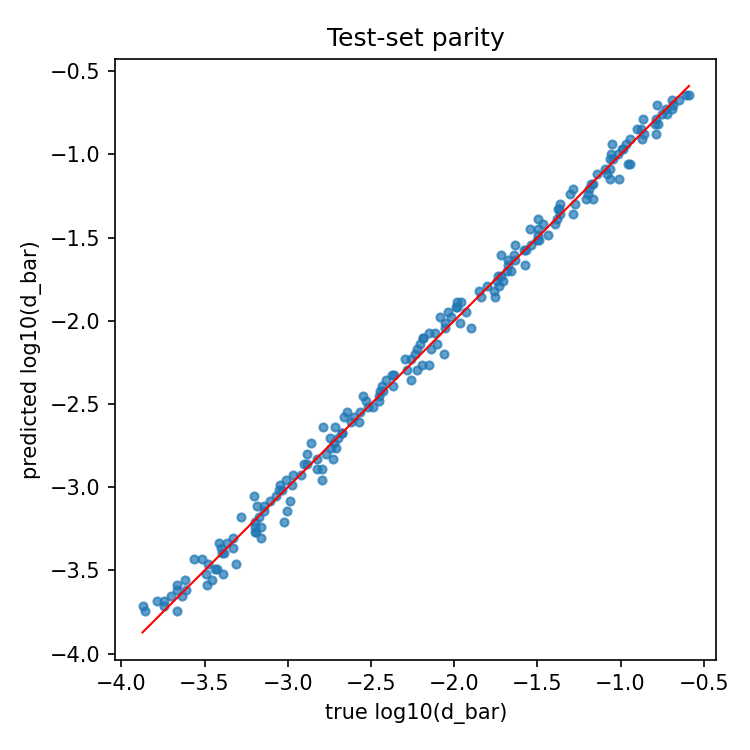
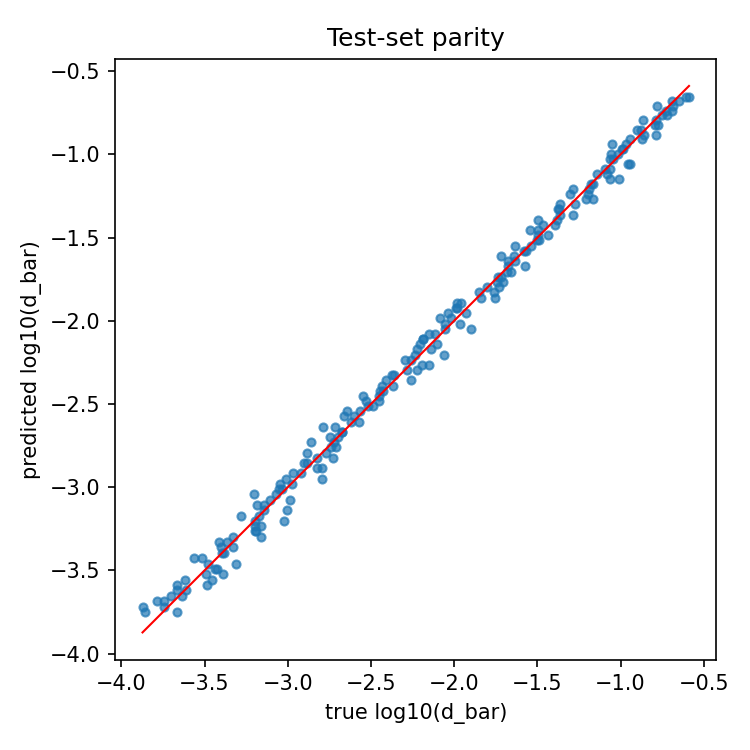
Deploy 32-16 as the 1-D surrogate architecture
benchmark_capacity_confirm.py showed the deployed 128-64 is not measurably
better than 32-16 (626 params, 14x smaller) on the downstream ABC-MCMC task
at Table 1's own scale -- max |Delta/SE| = 0.53 across all 9 cells -- while
32-16 was the best point estimate on both accuracy and interval length of
every size tested, and the closer curve fit to the GP baseline. Switching on
that basis: no measurable cost, substantially smaller network.

This retrains the checkpoint and regenerates its figures and the
architecture diagram (which reads ARCH from train.py directly, so it needed
no separate edit). Tables 1-3 and every other paper-scale number in Study I
still reflect the old 128-64 run and are being regenerated separately at
full paper scale.

diff --git a/Models/1D/network/train.py b/Models/1D/network/train.py
@@ -55,11 +55,23 @@ Z_975 = 1.959964
 TRAIN_REPS, VAL_REPS, TEST_REPS = {1, 2, 3, 4, 5}, {6, 7, 8}, {9, 10}
 DEFAULT_DATA = str(DATA)
 
-# Architecture selected by benchmark_arch.py: a smooth activation (GELU) with NO
-# BatchNorm and no dropout gives the best mean-curve fit for this smooth 1-D
-# response -- within ~1% of the GP (a statistical tie), vs the original
-# ReLU+BatchNorm design which was ~10x worse (badly biased at the domain edges).
-ARCH = dict(hidden_dims=(128, 64), activation="gelu", use_bn=False, dropout=0.0)
+# Activation/normalization selected by benchmark_arch.py: a smooth activation
+# (GELU) with NO BatchNorm and no dropout gives the best mean-curve fit for
+# this smooth 1-D response -- within ~1% of the GP (a statistical tie), vs the
+# original ReLU+BatchNorm design which was ~10x worse (badly biased at the
+# domain edges).
+#
+# Width/depth selected by benchmark_capacity.py + benchmark_capacity_confirm.py:
+# a capacity sweep from the original 128-64 (8,642 params) down to a linear
+# control found 32-16 (626 params, 14x smaller) the best curve fit of every
+# size tried, and confirmed at Table 1's own scale (40 reps, full p x J grid,
+# Monte Carlo SEs attached) that the downstream task the surrogate is actually
+# used for is statistically flat across that whole range -- 32-16 is the best
+# point estimate on both accuracy and interval length there too, though that
+# specific edge over 128-64 was not itself resolved (max |Delta/SE| = 0.53
+# across 9 cells; see results/logs/benchmark_capacity_confirm.md). Deployed
+# at 32-16 on that basis: no measurable cost, 14x fewer parameters.
+ARCH = dict(hidden_dims=(32, 16), activation="gelu", use_bn=False, dropout=0.0)
 
 
 def load_splits(csv_path):
